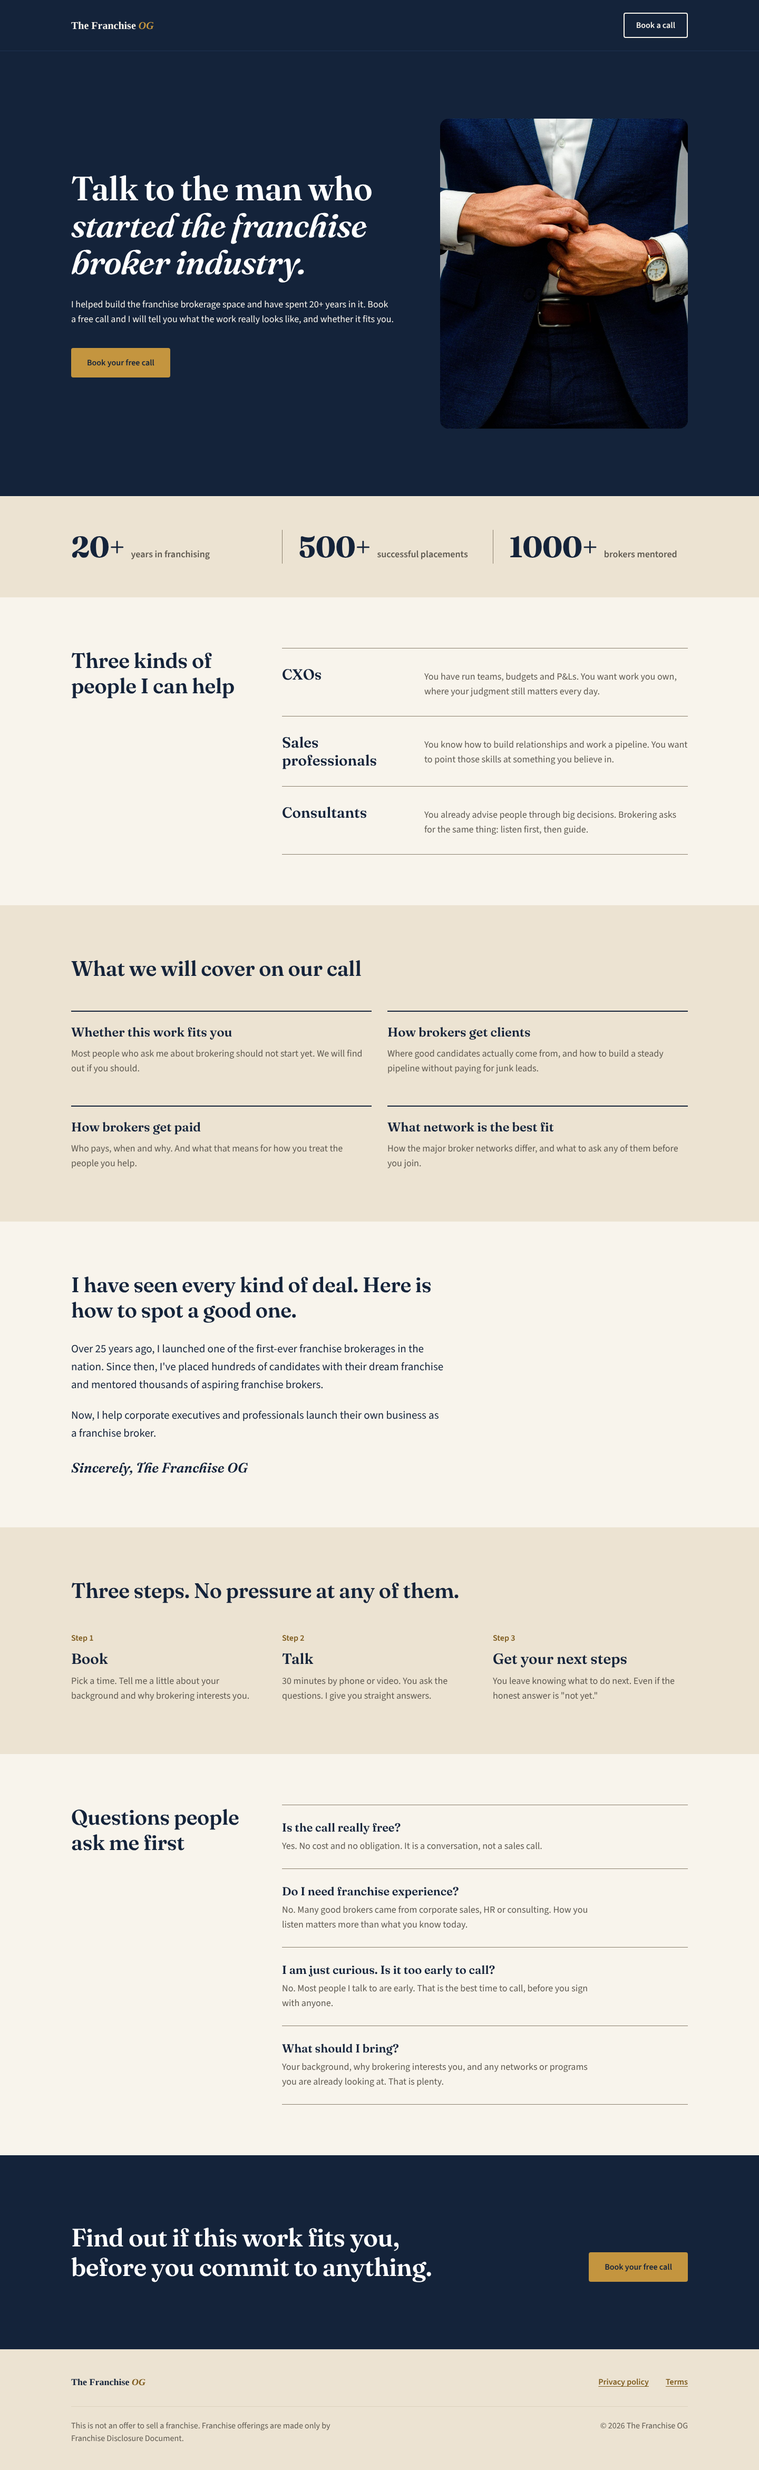
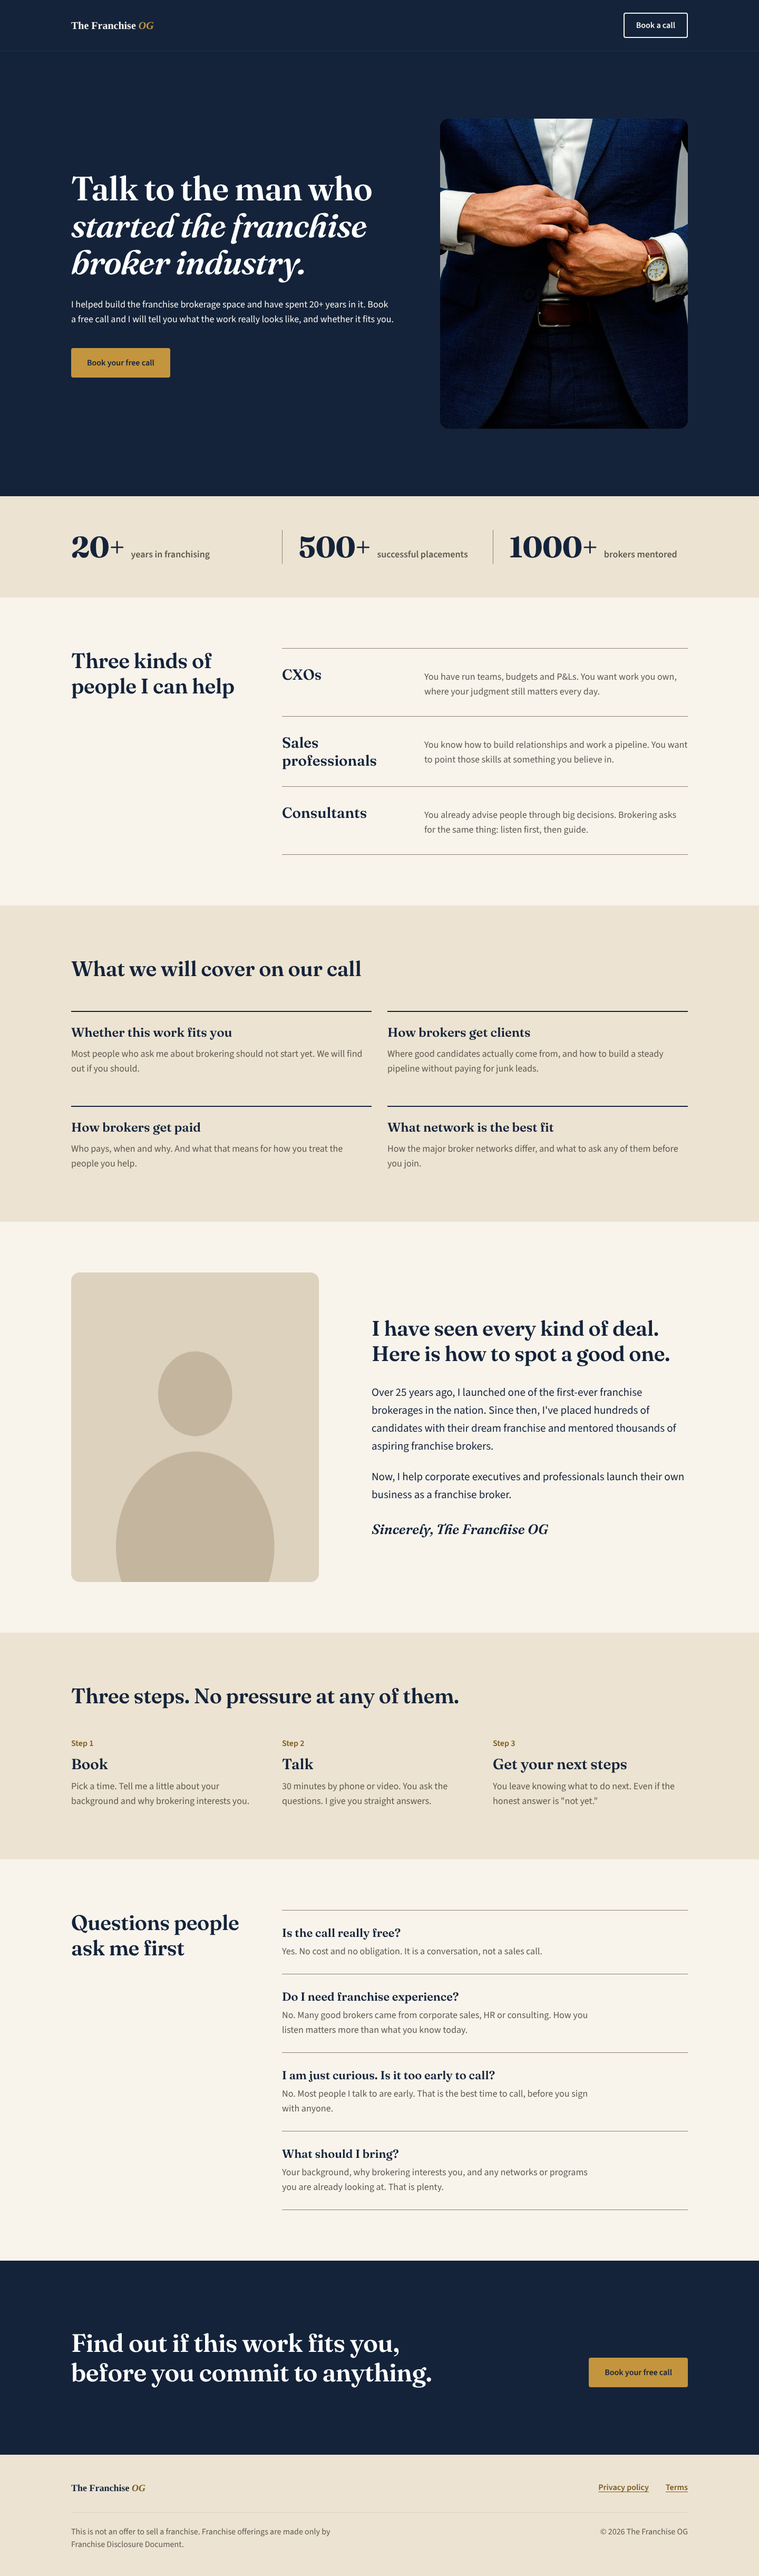
Match landing page to spec: restore About photo, remove stat animation
Bring back the 470px candid photo beside the About copy (670px with 70px
left padding, stacked on mobile) and drop the stat count-up script, since
the spec allows only 0.15s color/border/shadow transitions. Refresh
screenshots.

Claude-Session: https://claude.ai/code/session_01MpqwQwehHoDHPhzNFG9XuE

Changed region(s): [[0.0, 0.0312, 1.0, 0.9972], [0.0938, 0.0623, 0.5, 0.1558]]

diff --git a/index.html b/index.html
@@ -91,7 +91,10 @@
     </section>
 
     <section class="band band--parchment" aria-labelledby="about-title">
-      <div class="container">
+      <div class="container about">
+        <div class="about__photo">
+          <img class="photo" src="images/og-candid.jpg" alt="The Franchise OG talking with a client across a desk" width="470" height="588" loading="lazy">
+        </div>
         <div class="about__copy">
           <h2 id="about-title">I have seen every kind of deal. Here is how to spot a good one.</h2>
           <p>Over 25 years ago, I launched one of the first-ever franchise brokerages in the nation. Since then, I've placed hundreds of candidates with their dream franchise and mentored thousands of aspiring franchise brokers.</p>
@@ -178,47 +181,6 @@
     // Replace this with your real scheduling link. Every "Book" button uses it.
     const BOOKING_URL = "https://calendly.com/REPLACE-ME/intro-call";
     document.querySelectorAll("[data-booking]").forEach((a) => { a.href = BOOKING_URL; });
-
-    // Count the stats up from 0 the first time they scroll into view.
-    // The real values stay in the HTML for no-JS visitors and screen readers.
-    (function () {
-      const nums = document.querySelectorAll(".stat__num");
-      if (!nums.length || !("IntersectionObserver" in window)) return;
-      if (window.matchMedia("(prefers-reduced-motion: reduce)").matches) return;
-
-      const DURATION = 1400;
-      const easeOut = (t) => 1 - Math.pow(1 - t, 3);
-
-      document.fonts.ready.then(() => {
-        const stats = [];
-        nums.forEach((el) => {
-          const match = el.textContent.trim().match(/^(\d+)(.*)$/);
-          if (!match) return;
-          const label = document.createElement("span");
-          label.className = "visually-hidden";
-          label.textContent = el.textContent;
-          el.before(label);
-          el.setAttribute("aria-hidden", "true");
-          // Reserve the final width so the label beside it does not shift.
-          el.style.minWidth = el.getBoundingClientRect().width + "px";
-          el.textContent = "0" + match[2];
-          stats.push({ el, target: Number(match[1]), suffix: match[2] });
-        });
-
-        const observer = new IntersectionObserver((entries) => {
-          if (!entries.some((e) => e.isIntersecting)) return;
-          observer.disconnect();
-          const start = performance.now();
-          const tick = (now) => {
-            const t = Math.min((now - start) / DURATION, 1);
-            stats.forEach((s) => { s.el.textContent = Math.round(s.target * easeOut(t)) + s.suffix; });
-            if (t < 1) requestAnimationFrame(tick);
-          };
-          requestAnimationFrame(tick);
-        }, { threshold: 0.5 });
-        observer.observe(document.querySelector(".stats__list"));
-      });
-    })();
   </script>
 </body>
 </html>

diff --git a/styles.css b/styles.css
@@ -121,18 +121,6 @@ a {
   outline-color: var(--brass);
 }
 
-.visually-hidden {
-  position: absolute;
-  width: 1px;
-  height: 1px;
-  margin: -1px;
-  padding: 0;
-  overflow: hidden;
-  clip: rect(0 0 0 0);
-  white-space: nowrap;
-  border: 0;
-}
-
 .skip-link {
   position: absolute;
   left: 16px;
@@ -287,7 +275,6 @@ a {
 }
 
 .stat__num {
-  font-variant-numeric: tabular-nums;
   font-family: var(--font-display);
   font-size: 56px;
   font-weight: 700;
@@ -385,8 +372,15 @@ a {
 
 /* About */
 
+.about {
+  display: grid;
+  grid-template-columns: 470fr 670fr;
+  column-gap: var(--gap);
+  align-items: center;
+}
+
 .about__copy {
-  max-width: 770px;
+  padding-left: 70px;
 }
 
 .about__copy p {
@@ -556,6 +550,7 @@ a {
 
   .hero__grid,
   .split,
+  .about,
   .cta__grid,
   .topics,
   .steps,
@@ -630,6 +625,14 @@ a {
   .topic h3 {
     font-size: 22px;
     line-height: 28px;
+  }
+
+  .about {
+    row-gap: 40px;
+  }
+
+  .about__copy {
+    padding-left: 0;
   }
 
   .about__copy p {
